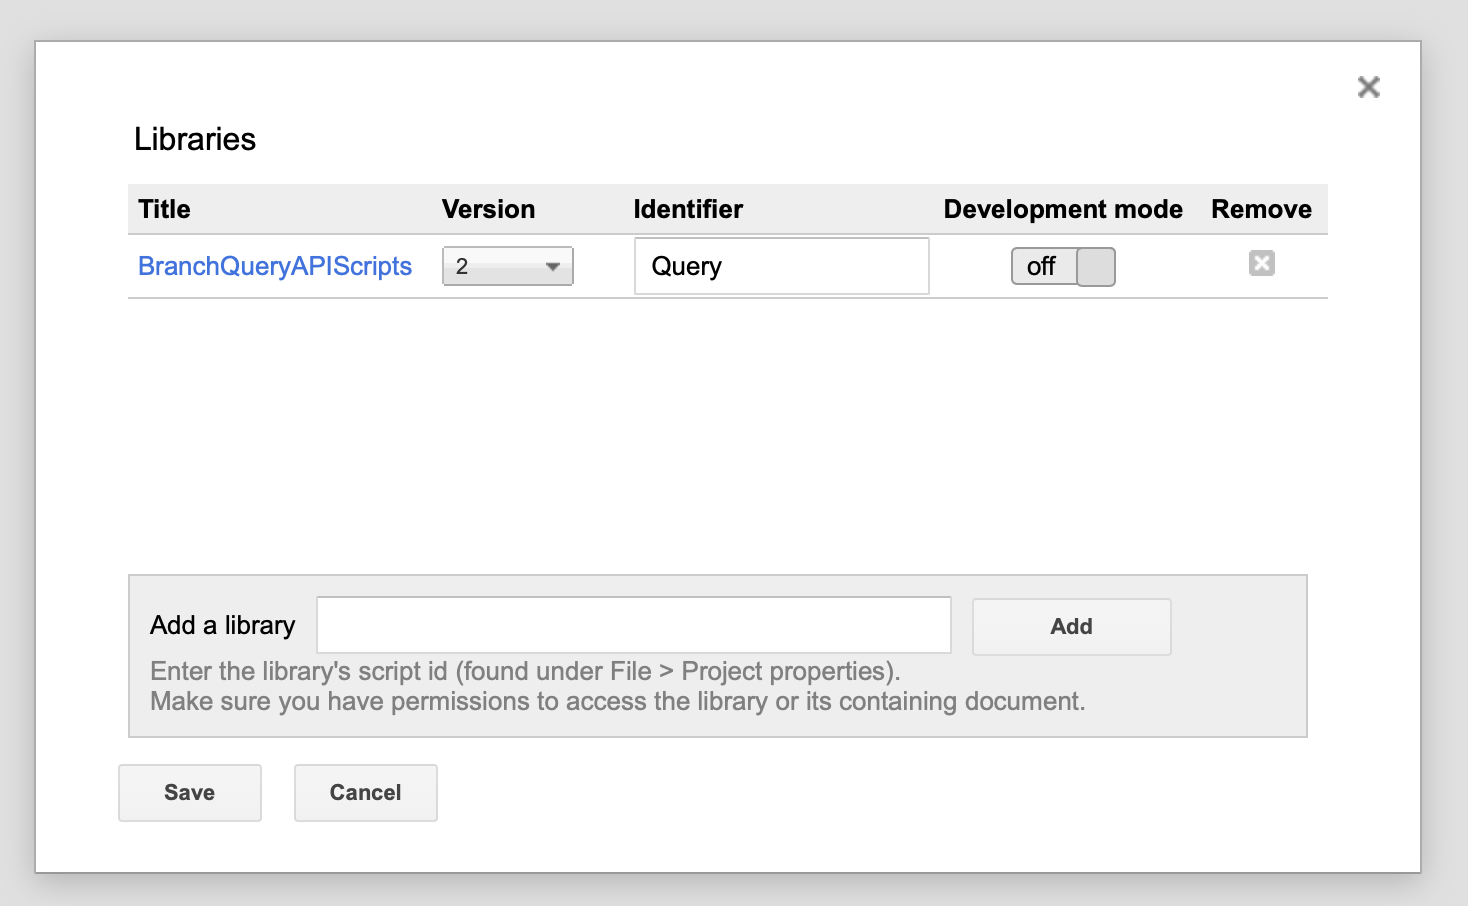
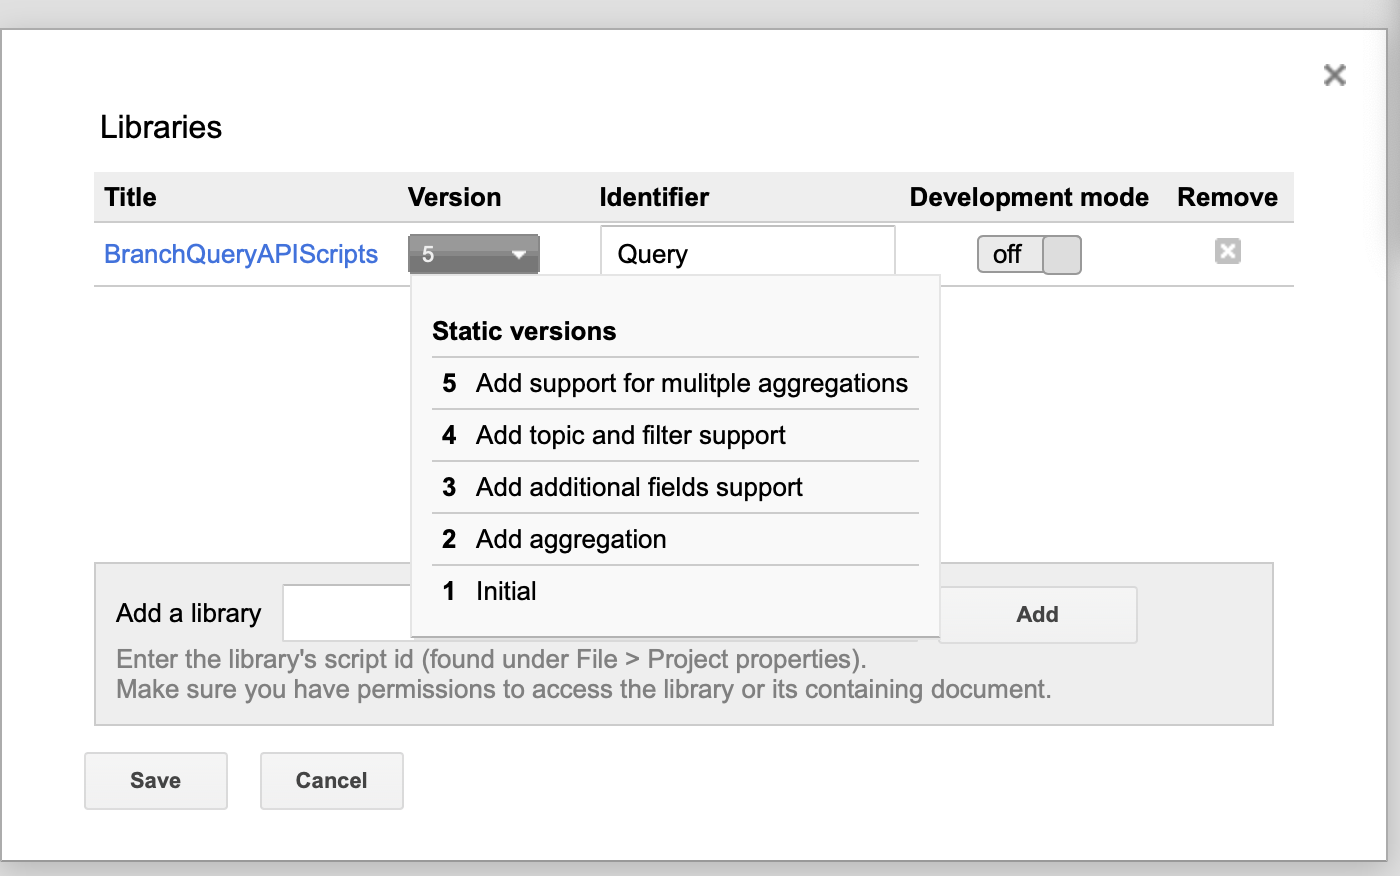
Adding new fields support and aggregation

diff --git a/README.md b/README.md
@@ -11,21 +11,27 @@ The query scripts will pull commerce data each day for Ad Networks and populate 
 	- Branch Key
 	- Branch Secret
 	- Query Limit
+	- Additional Columns
 	- Ad Networks
+	- Datasource
 	- Aggregation
+	- Filter
 3. For each of those rows, populate with the following:
 	- Branch Key: Retrieve from the Account Settings section of the Branch Dashboard
 	- Branch Secret: Retrieve from the Account Settings section of the Branch Dashboard
 	- Query Limit: Set this by default to 1000 - this is capped at 10 000 rows.
+	- Additional Columns: If you require additional data in the report, please add them in a comma separated list. For more information on the available columns refer to the *dimensions* section of the documentation: https://help.branch.io/developers-hub/docs/query-api#section-data-selection
 	- Ad Networks: Populate with a comma separated list of ad network names. You can retrieve this list from the list from the Branch dashboard under Ads -> Partner Management.
+	- Datasource: A list of datasources can be found here: https://help.branch.io/developers-hub/docs/query-api#section-data-selection
 		Note: the names are case sensitive and need to be input exactly as they appear on the Branch dashboard. e.g. Google AdWords *not* Google adwords
-	- Aggregation: Possible values - `revenue`, `total_count`, `unique_count`, `cost` for description of these values, see here: https://help.branch.io/developers-hub/docs/query-api#section-data-selection
+	- Aggregation: Possible values - `revenue`, `total_count`, `unique_count`, `cost`. If you would like to have multiple aggregations separate them with a comma e.g. `revenue, total_count` For a description of these values, see here: https://help.branch.io/developers-hub/docs/query-api#section-data-selection 
+	- Filter: If you would like to filter the results you can add multiple filters - just be sure that the it is valid JSON. For more information on filters visit: https://help.branch.io/developers-hub/docs/query-api#section-data-selection
 
 ![Settings](images/Settings.png)
 
-4. Once Settings are complete in the sheet, select Tools -> Script Editor from the menu
-5. The script editor will open. Give the project a name e.g. Branch Query Scripts
-6. Replace the function 
+1. Once Settings are complete in the sheet, select Tools -> Script Editor from the menu
+2. The script editor will open. Give the project a name e.g. Branch Query Scripts
+3. Replace the function 
 ```
 myFunction() {
 	
